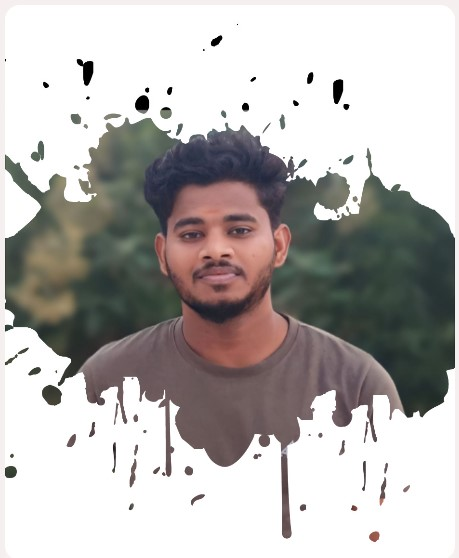
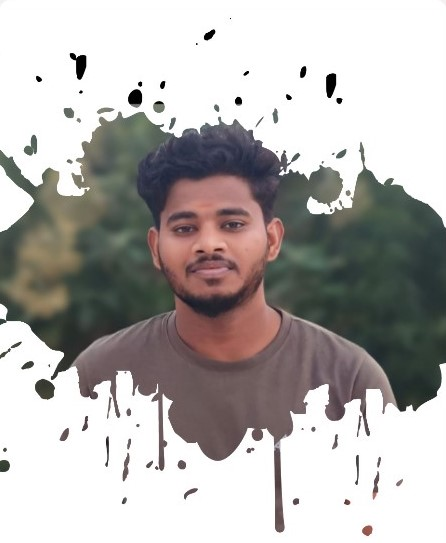
chope:picture-modifiyed

diff --git a/src/Styles/About.css b/src/Styles/About.css
@@ -101,8 +101,8 @@ font-weight: 500;
     
   /* } */ 
   .my-image{
-    width: 310px;
-    height: 380px;
+    width: 300px;
+    height: 370px;
      border: 3px solid transparent;
      border-radius: 5px;
 
